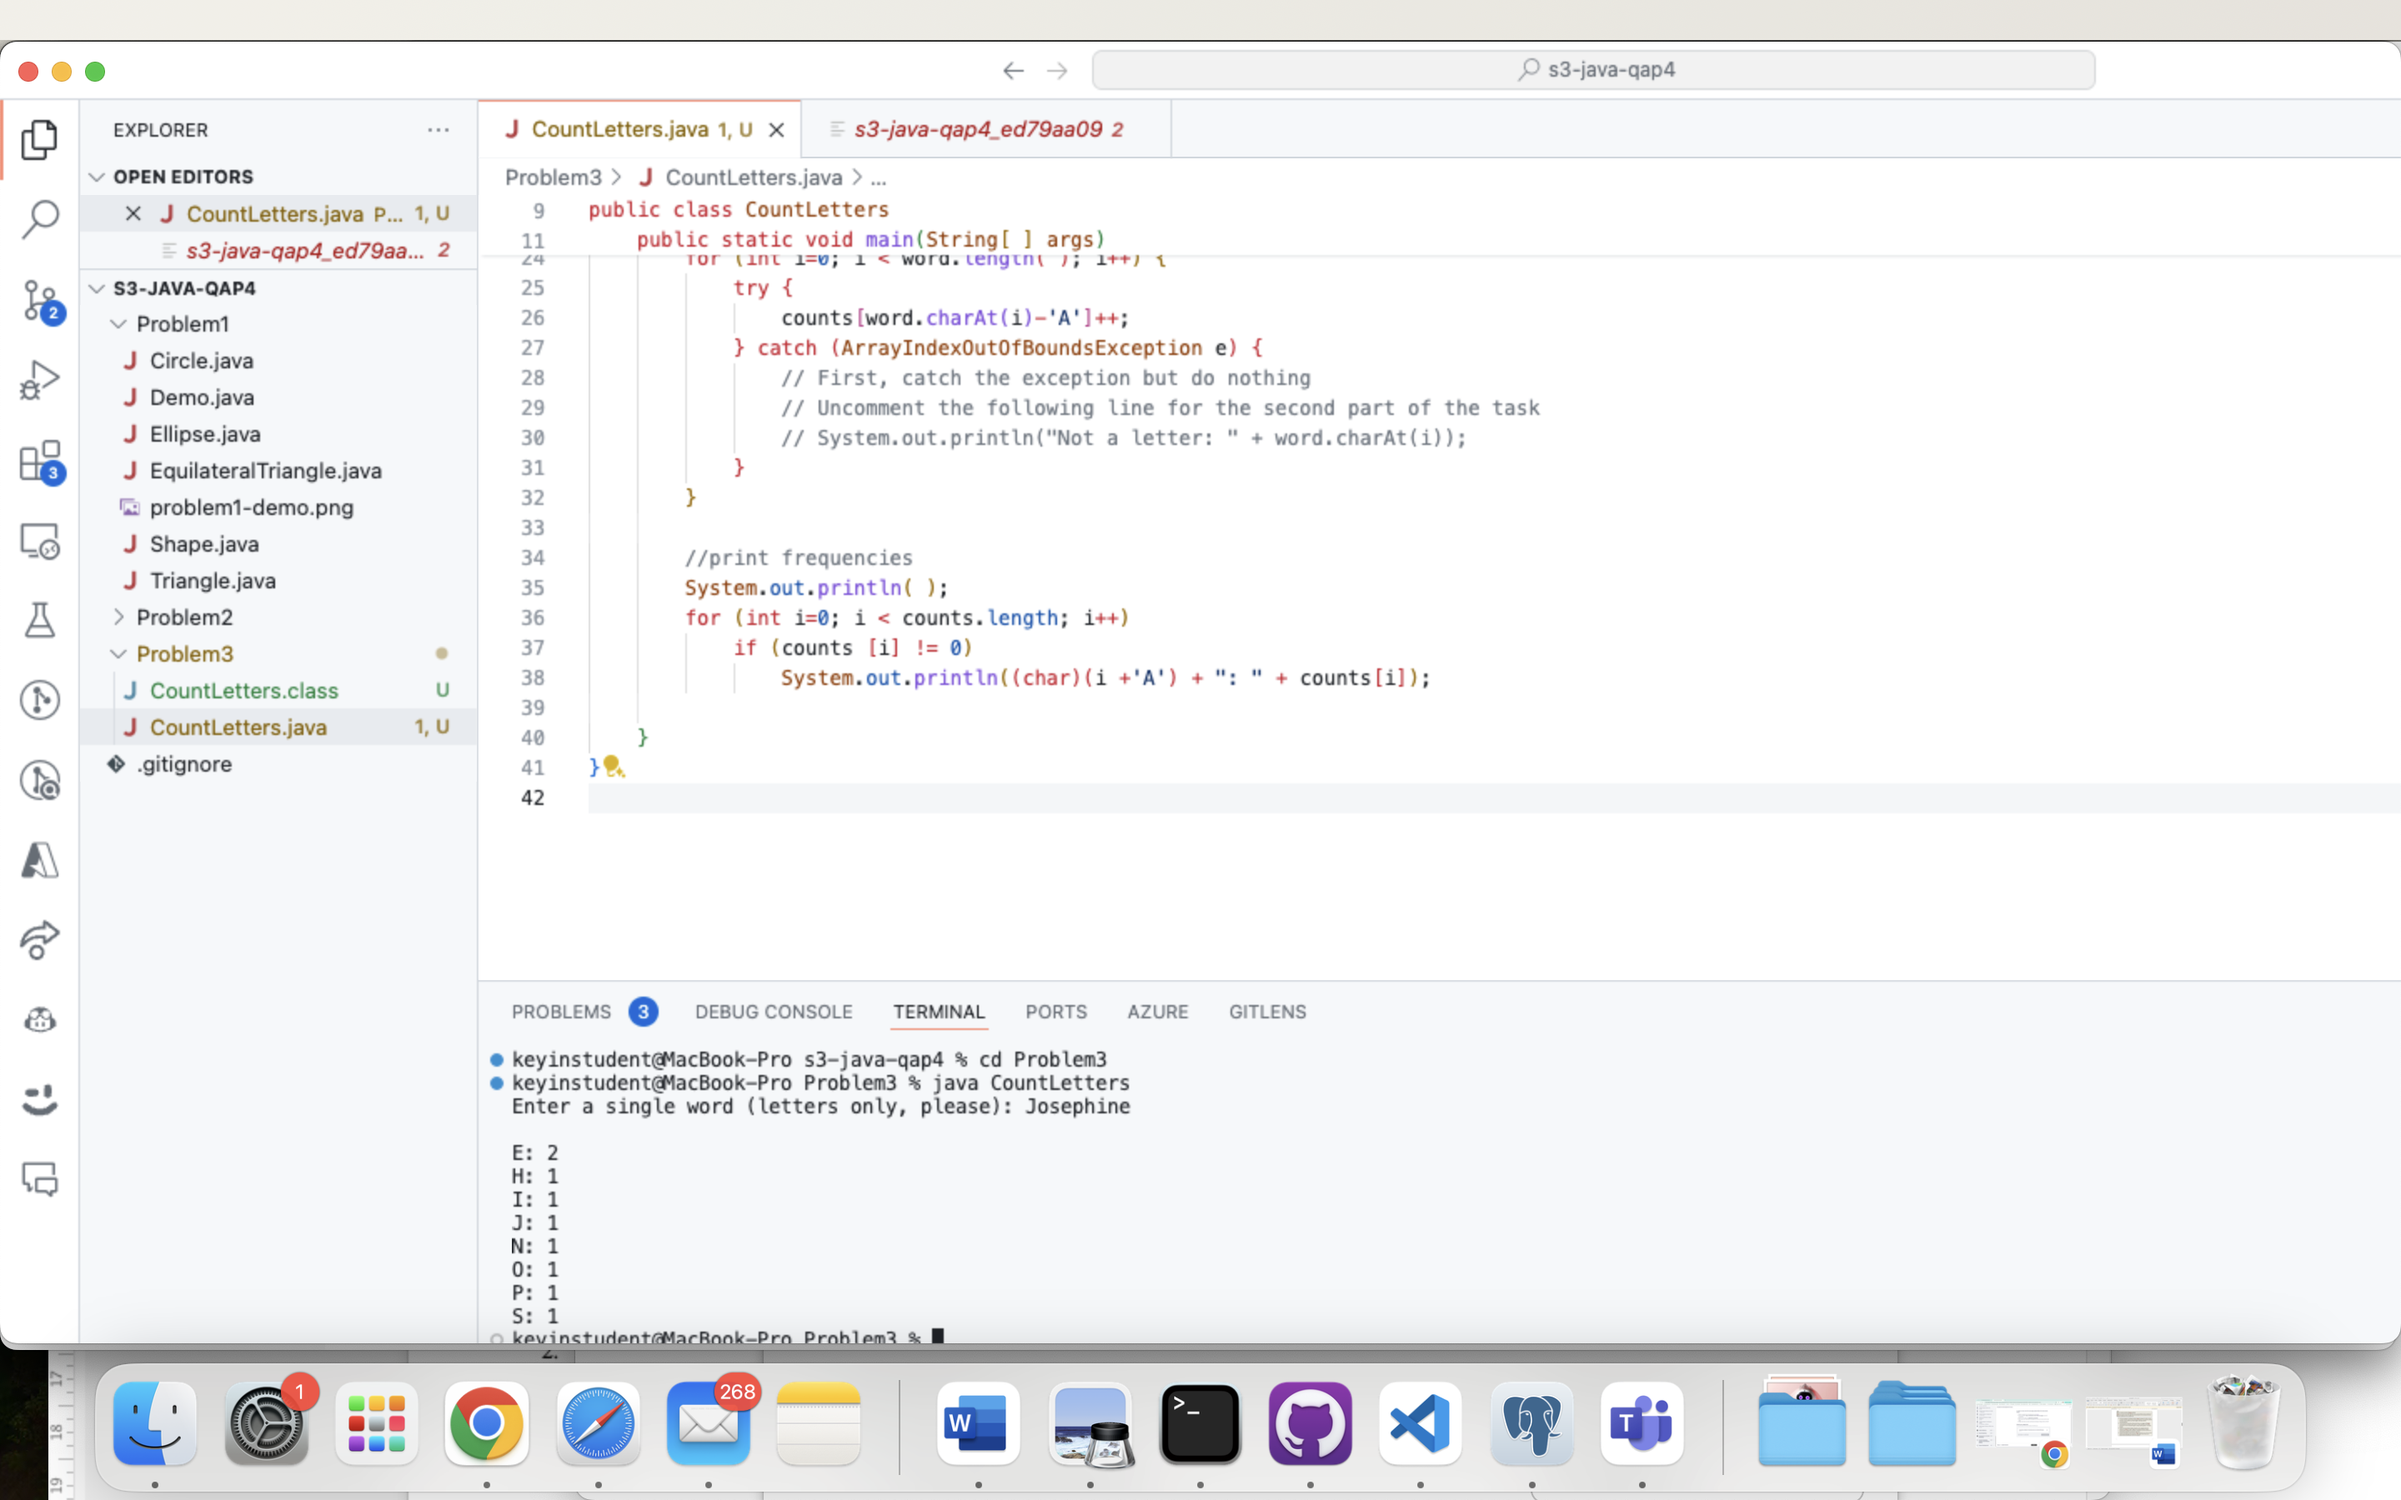
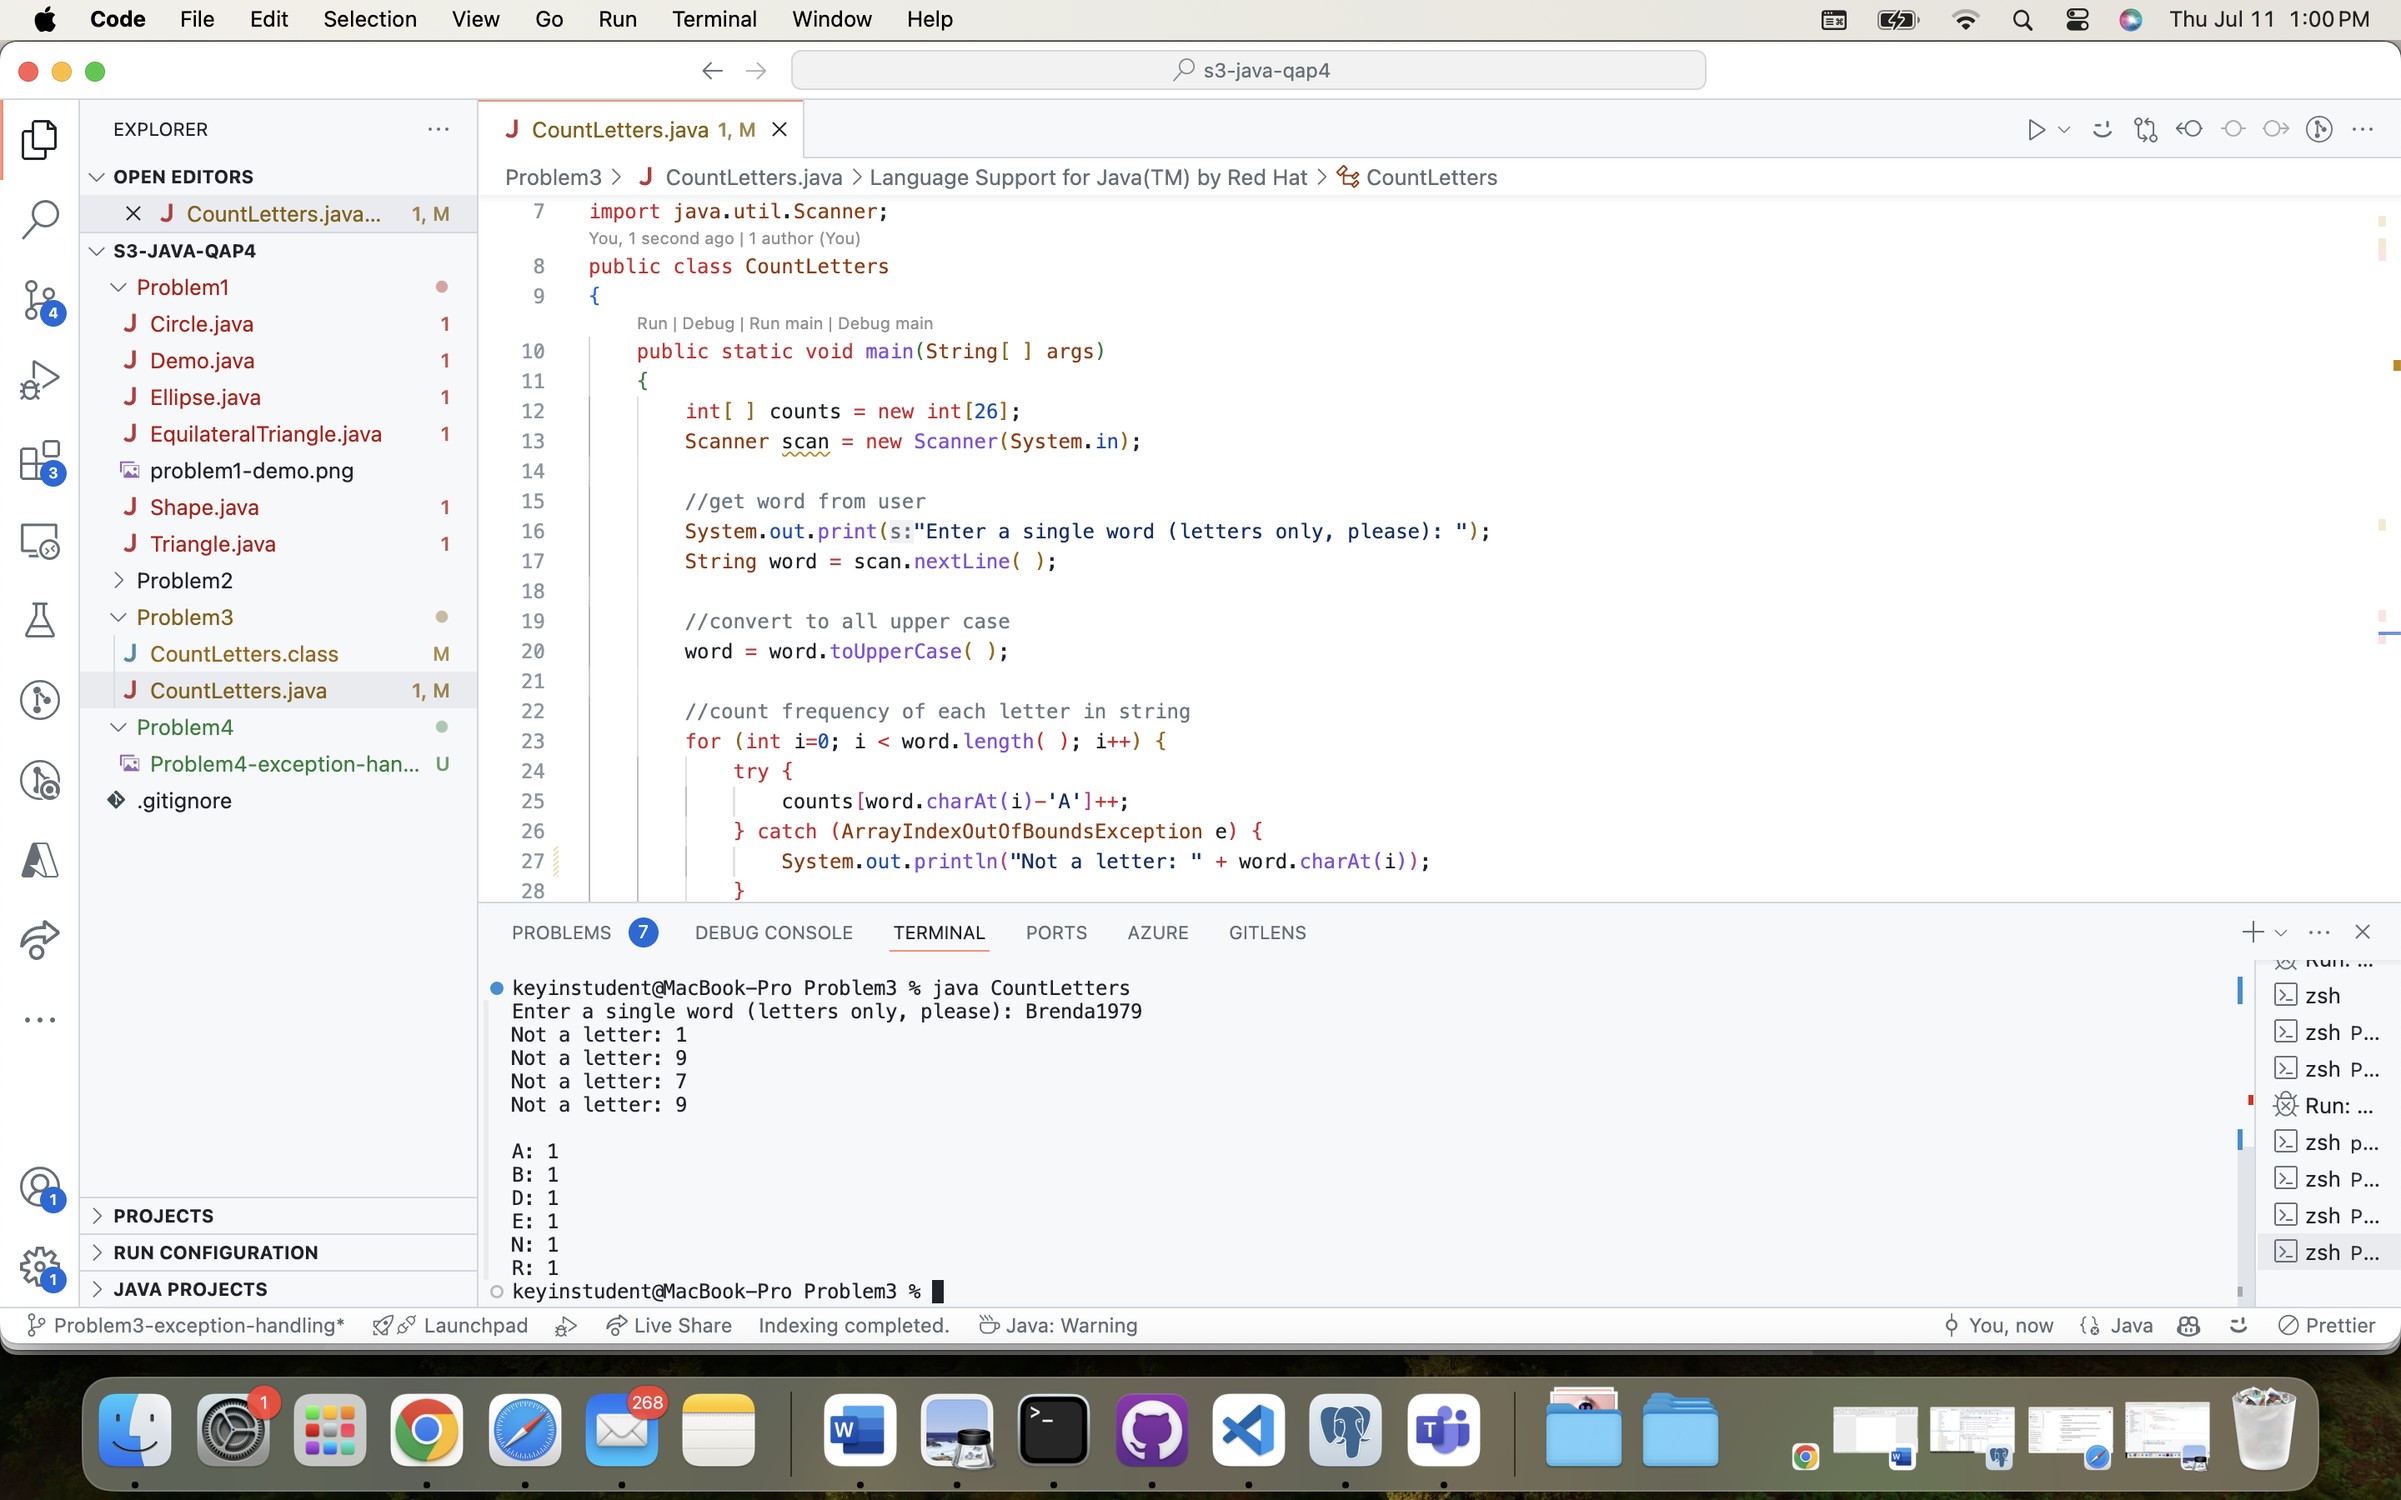
Updated exception-handling and screenshots

diff --git a/Problem3/CountLetters.java b/Problem3/CountLetters.java
@@ -1,9 +1,8 @@
 // ****************************************************************
-// CountLetters.java
+// Modified CountLetters.java
 //
-// Reads a words from the standard input and prints the number of 
+// Reads a word from the standard input and prints the number of 
 // occurrences of each letter in that word.
-//          
 // ****************************************************************
 import java.util.Scanner;
 public class CountLetters
@@ -25,9 +24,7 @@ public class CountLetters
             try {
                 counts[word.charAt(i)-'A']++;
             } catch (ArrayIndexOutOfBoundsException e) {
-                // First, catch the exception but do nothing
-                // Uncomment the following line for the second part of the task
-                // System.out.println("Not a letter: " + word.charAt(i));
+                System.out.println("Not a letter: " + word.charAt(i));
             }
         }
 
@@ -36,6 +33,5 @@ public class CountLetters
         for (int i=0; i < counts.length; i++)
             if (counts [i] != 0)
                 System.out.println((char)(i +'A') + ": " + counts[i]);
-
     }
 }
